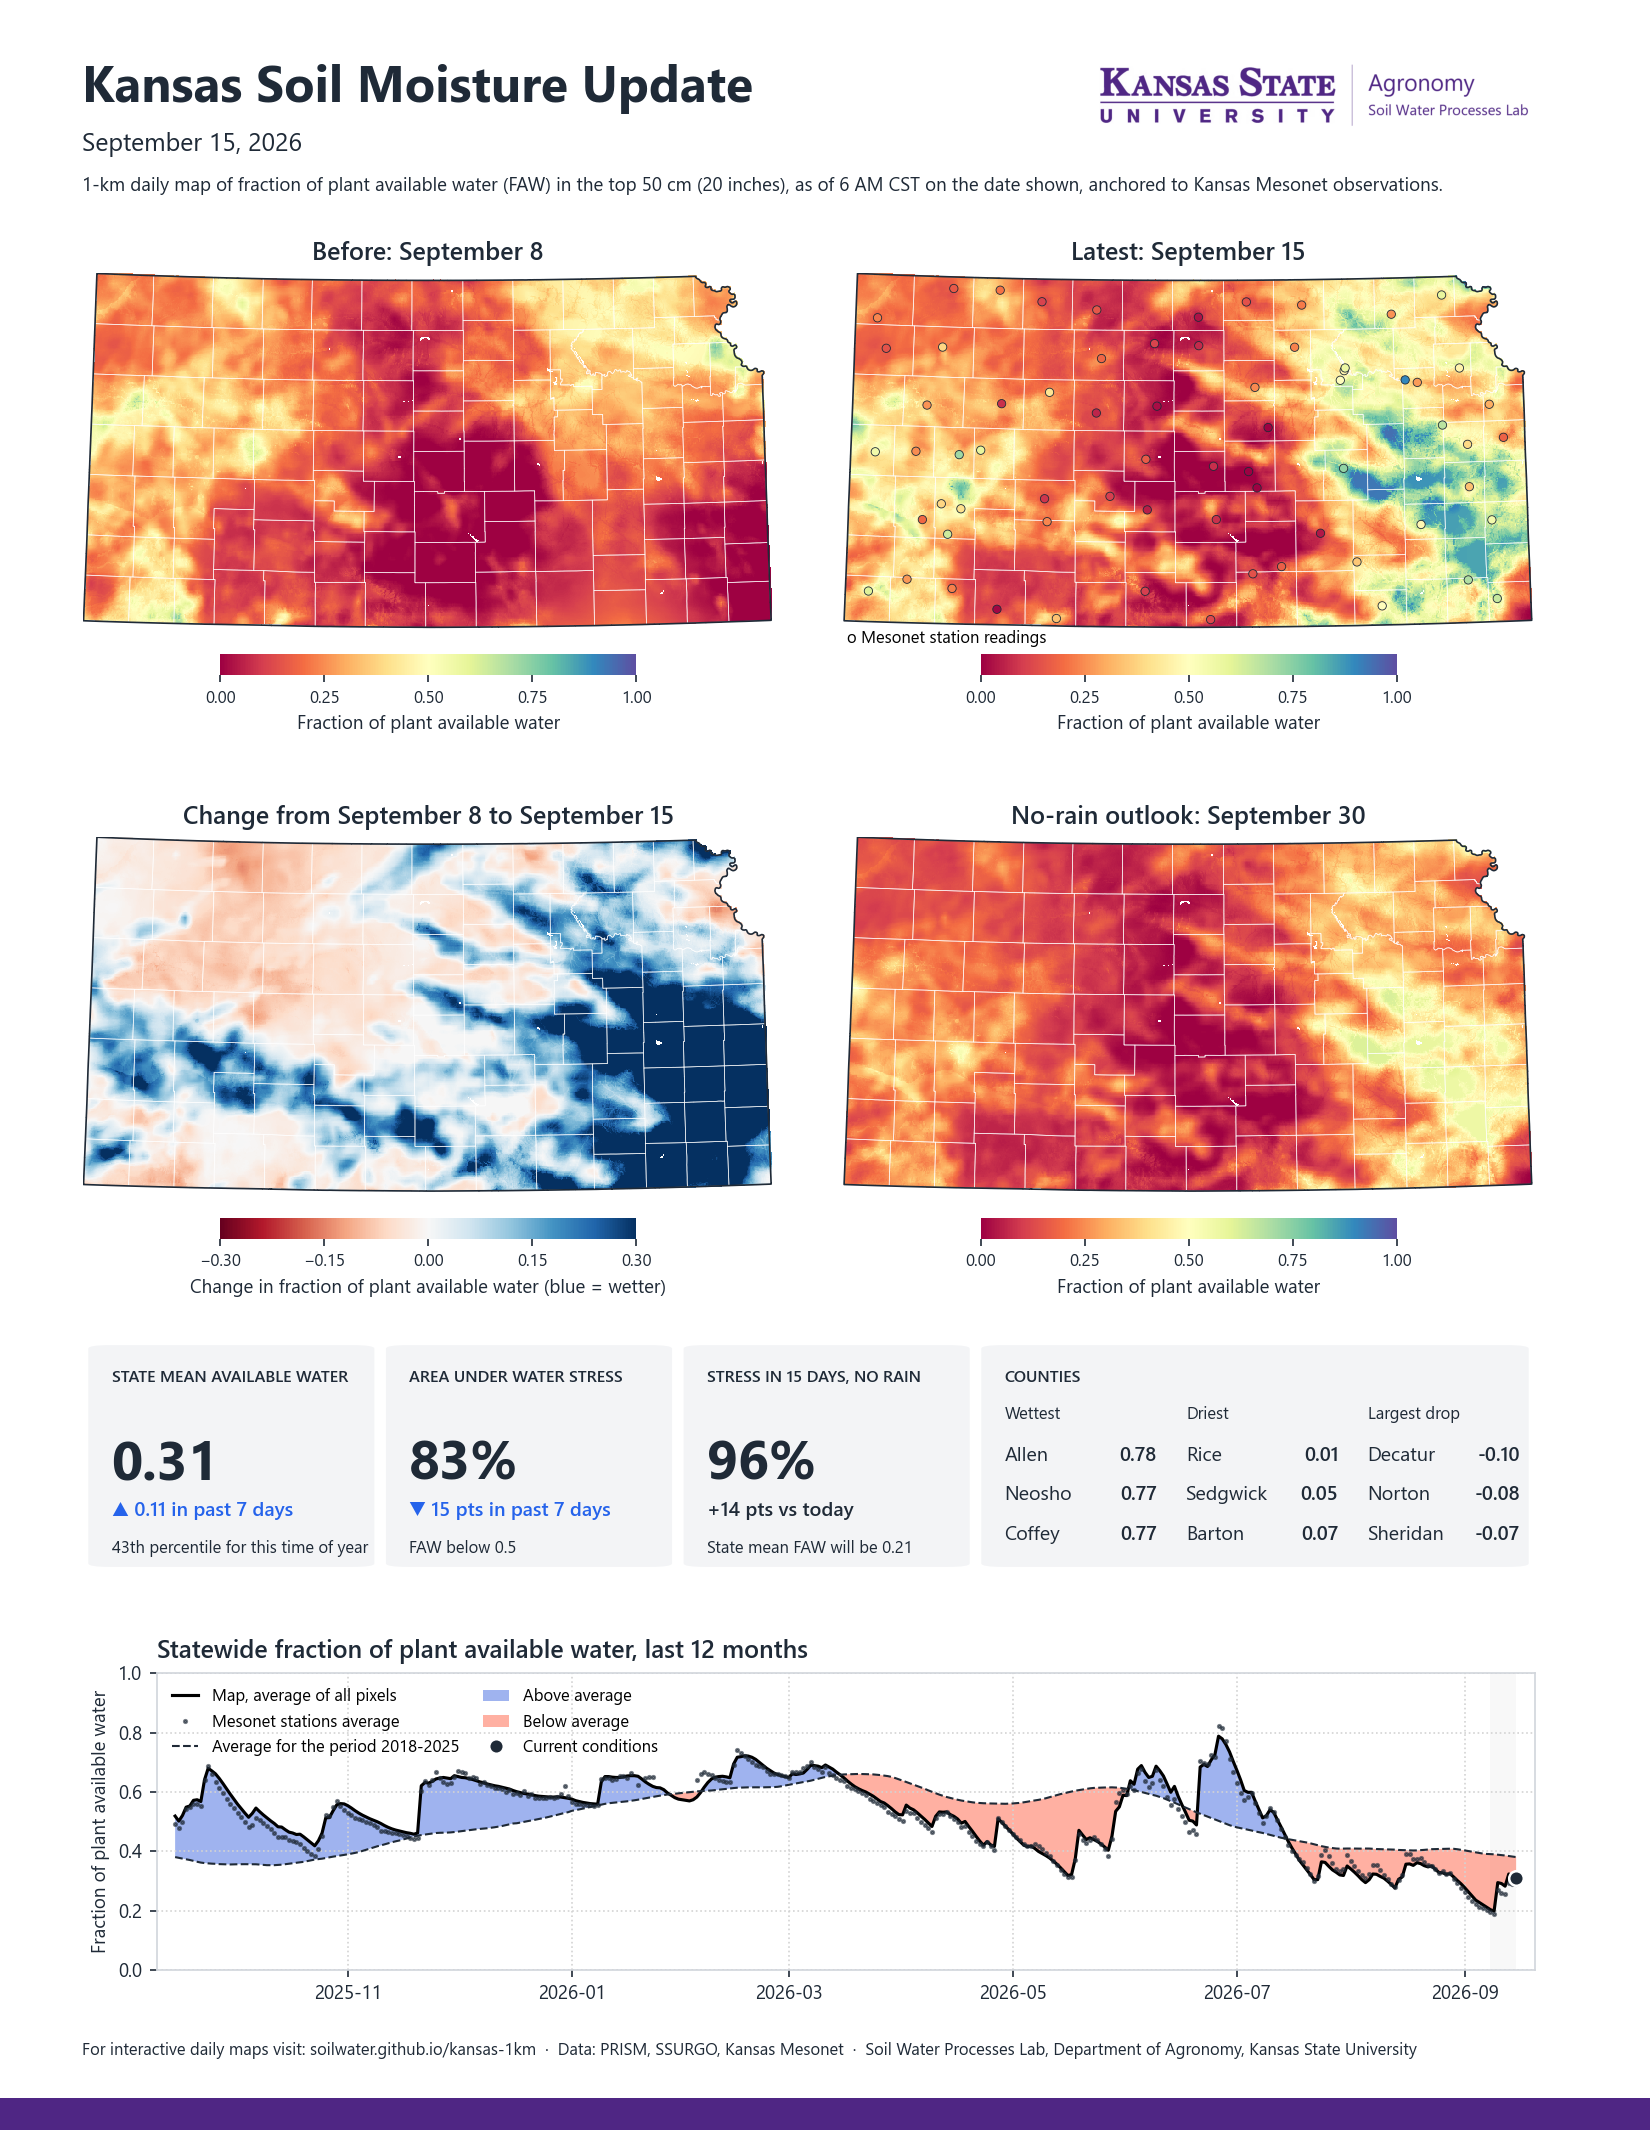
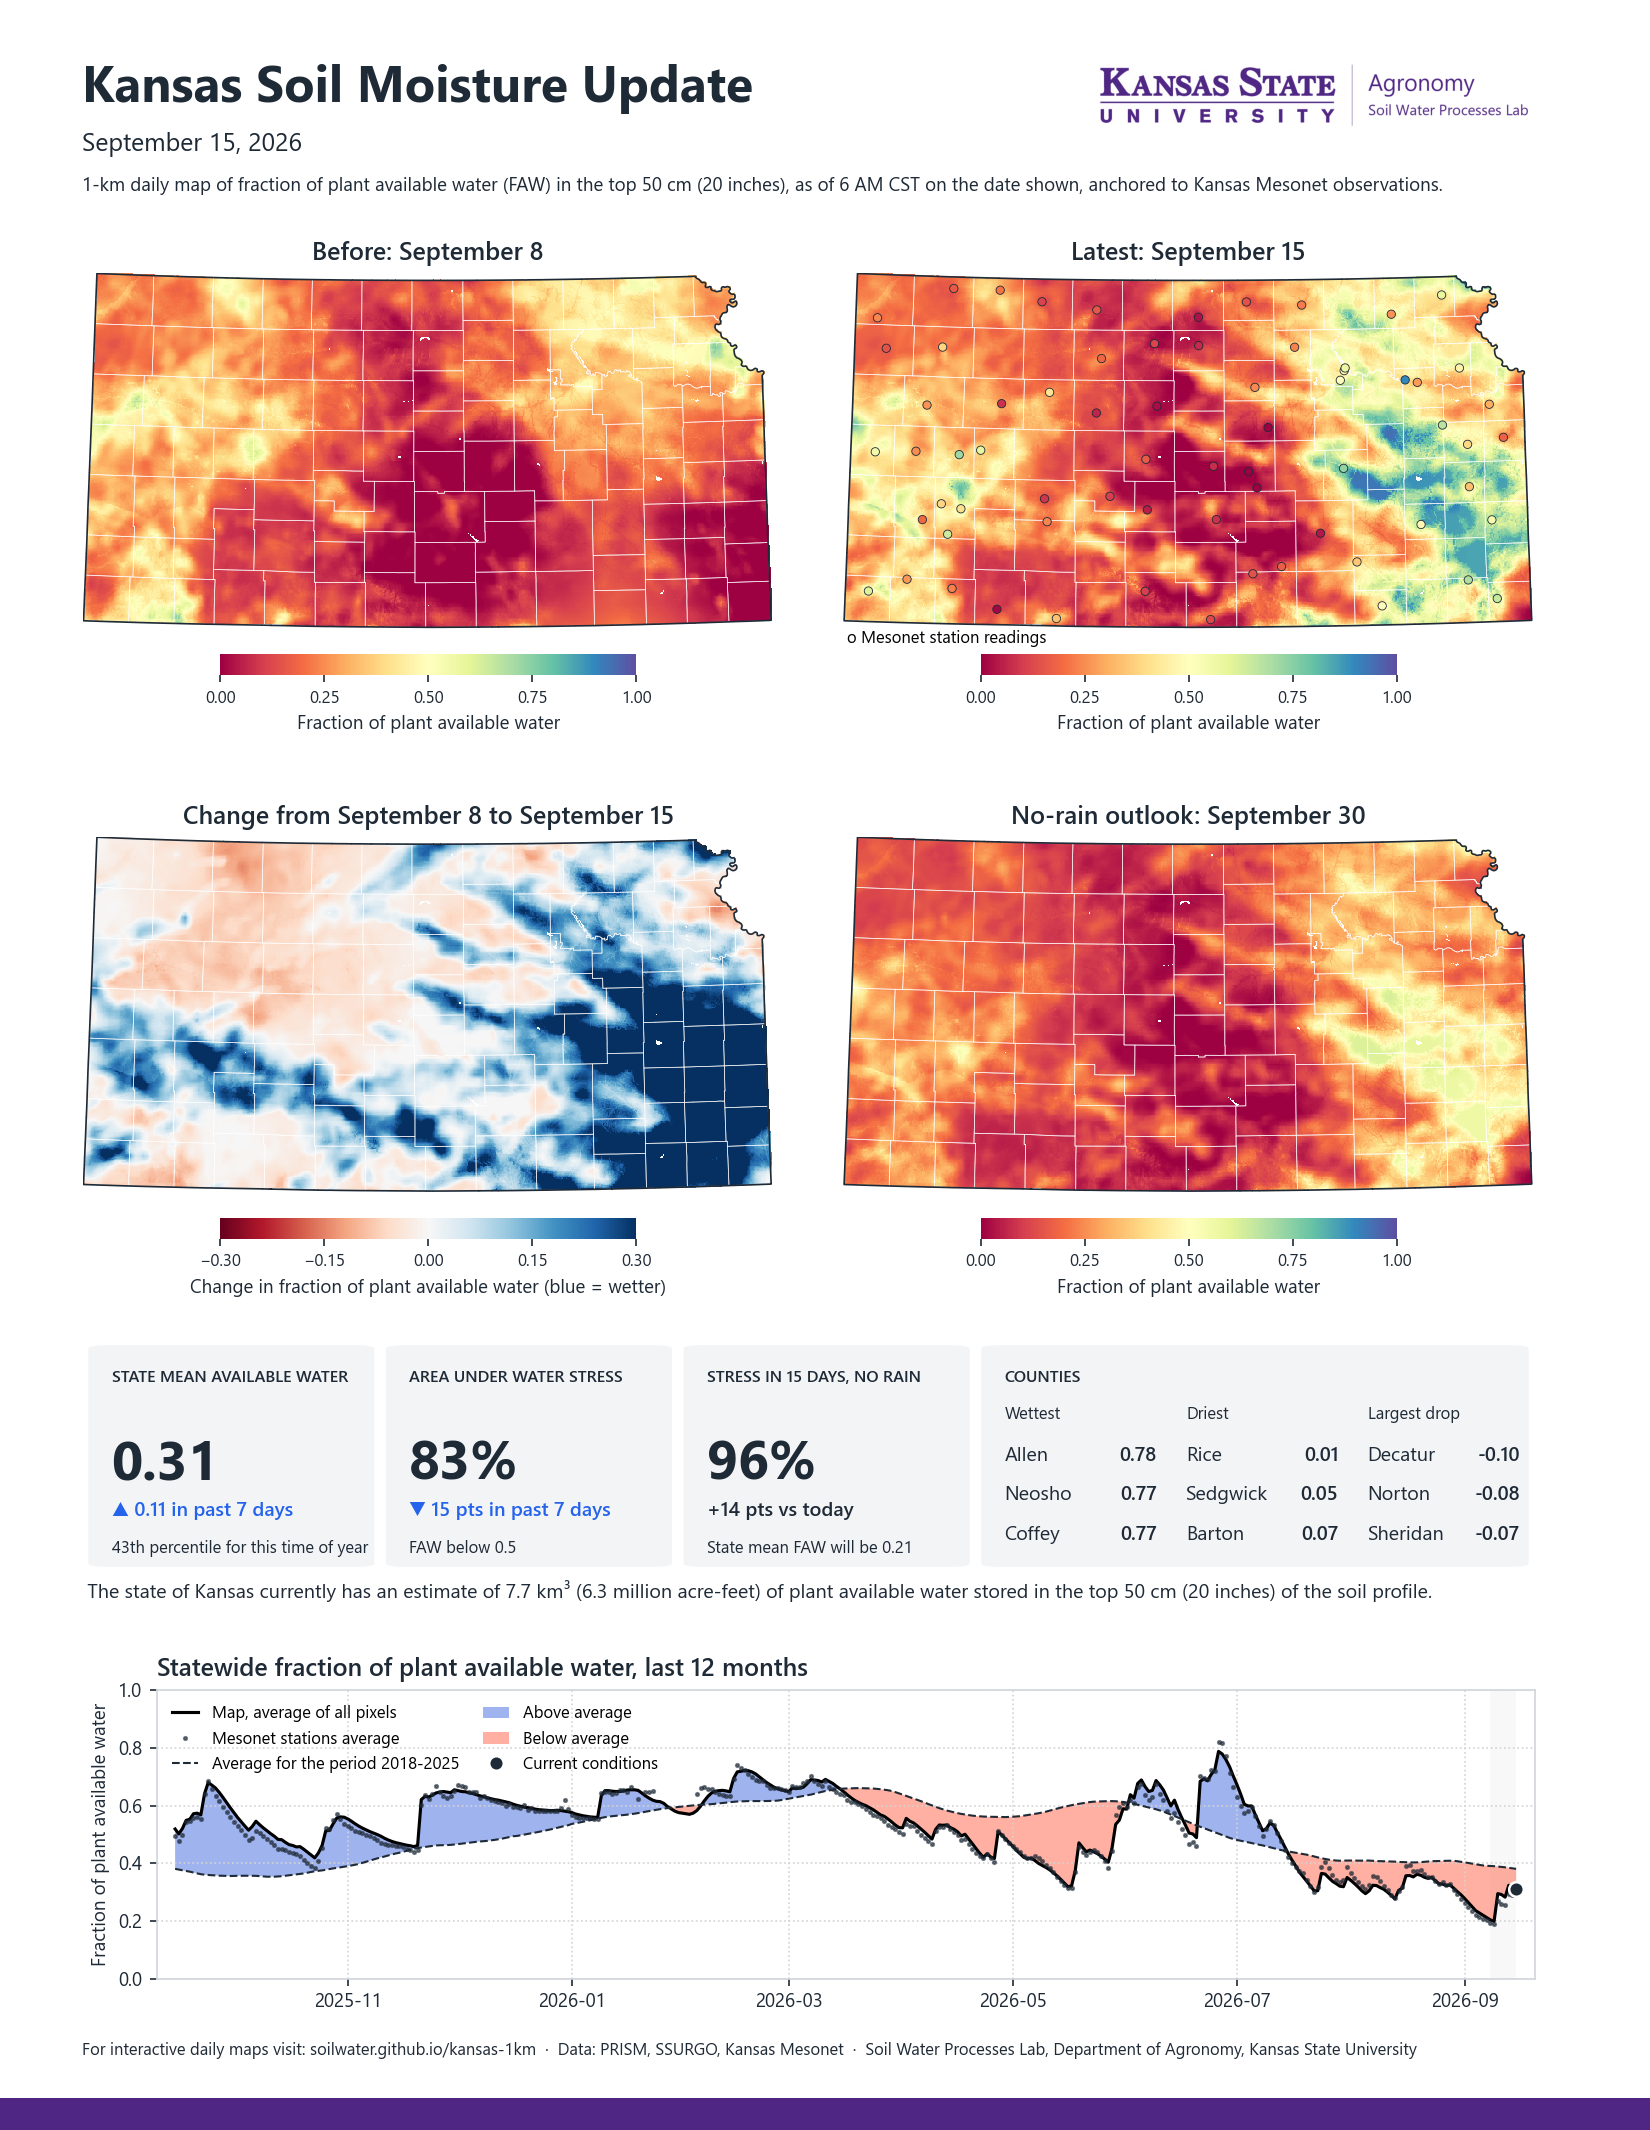
Updated

diff --git a/index.html b/index.html
@@ -222,17 +222,17 @@ const BOUNDS       = [[36.99262, -102.05760], [40.01096, -94.58362]];   // [[sou
 const SUMMARY_URL  = 'summary.csv';                            // date, faw_map, storage_km3, faw_stations, n_stations
 const COUNTIES_URL = 'boundaries/kansas_county_bnd.geojson';
 const MIN_DATE = new Date('2017-10-15T12:00:00');
-const STORAGE_FLOOR_KM3 = 17.0, STORAGE_CEILING_KM3 = 39.6;   // state totals at wilting point / field capacity (printed by analysis.ipynb, Figure 7)
+const PAW_BASE_KM3 = 15.113, PAW_CAPACITY_KM3 = 25.228;       // ΣLL·area (below-wilting base subtracted from storage_km3) / ΣTAW·area (plant-available water at field capacity)
 const MIN_STATIONS = 30;                                       // station mean is shown only when at least this many stations report
 
 // Variables offered in the chart. Each reads columns of summary.csv; add a row here to add a variable.
 const VARIABLES = {
-  faw: { label: 'Available water', y: 'FAW', min: 0, max: 1, fmt: v => v.toFixed(2),
+  faw: { label: 'Fraction (FAW)', y: 'FAW', min: 0, max: 1, fmt: v => v.toFixed(2),
          line: { col: 'faw_map', name: 'map, spatial mean' }, dots: { col: 'faw_stations', name: 'stations, mean' },
          note: 'Line: spatial mean of the map. Dots: mean of the Kansas Mesonet stations, shown when at least ' + MIN_STATIONS + ' report (fewer in freezing spells).' },
-  km3: { label: 'Water stored', y: 'km³', min: STORAGE_FLOOR_KM3, max: STORAGE_CEILING_KM3, fmt: v => v.toFixed(1) + ' km³',
-         line: { col: 'storage_km3', name: 'water stored in the top 50 cm' }, ref: { value: STORAGE_CEILING_KM3, name: 'field capacity' },
-         note: 'Axis floor: state total with every pixel at wilting point. Dashed: state total at field capacity.' },
+  km3: { label: 'Plant available water', y: 'km³', min: 0, max: PAW_CAPACITY_KM3, fmt: v => v.toFixed(1) + ' km³', fillArea: true,
+         line: { col: 'paw_km3', name: 'plant available water stored' }, ref: { value: PAW_CAPACITY_KM3, name: 'field capacity' },
+         note: 'Plant available water stored across the state (top 50 cm). Dashed: the amount at field capacity (' + PAW_CAPACITY_KM3.toFixed(0) + ' km³).' },
   n:   { label: 'Stations', y: 'stations', min: 0, max: 100, fmt: v => v.toFixed(0),
          line: { col: 'n_stations', name: 'stations reporting' }, note: 'Number of Mesonet stations with a valid, unfrozen profile that day.' },
 };
@@ -510,6 +510,7 @@ fetch(SUMMARY_URL).then(r => r.text()).then(txt => {
   S = { dates: rows.map(r => r[0]), index: {} };
   head.slice(1).forEach(name => S[name] = col(name));
   S.faw_stations = S.faw_stations.map((v, i) => S.n_stations[i] >= MIN_STATIONS ? v : null);
+  S.paw_km3 = S.storage_km3.map(v => v == null ? null : v - PAW_BASE_KM3);   // plant available water = total storage minus the constant below-wilting base
   S.dates.forEach((d, i) => S.index[d] = i);
   latest = fromISO(S.dates[S.dates.length - 1]); dateInput.max = S.dates[S.dates.length - 1];     // the last day that has a map
   buildButtons(); buildChart();
@@ -528,7 +529,7 @@ function buildButtons() {
 function buildChart() {
   const v = VARIABLES[variable], datasets = [];
   if (v.dots) datasets.push({ label: v.dots.name, data: S[v.dots.col], type: 'scatter', pointRadius: 1.3, pointHoverRadius: 3, backgroundColor: 'rgba(255,255,255,0.65)', order: 1 });
-  datasets.push({ label: v.line.name, data: S[v.line.col], borderColor: '#f0885a', borderWidth: 1.3, pointRadius: 0, pointHoverRadius: 3, fill: v.min === STORAGE_FLOOR_KM3 ? { target: 'start', above: 'rgba(240,136,90,0.12)' } : false, spanGaps: false, order: 2 });
+  datasets.push({ label: v.line.name, data: S[v.line.col], borderColor: '#f0885a', borderWidth: 1.3, pointRadius: 0, pointHoverRadius: 3, fill: v.fillArea ? { target: 'start', above: 'rgba(240,136,90,0.12)' } : false, spanGaps: false, order: 2 });
   if (v.ref) datasets.push({ label: v.ref.name, data: S.dates.map(() => v.ref.value), borderColor: 'rgba(255,255,255,0.4)', borderDash: [4, 4], borderWidth: 1, pointRadius: 0, pointHoverRadius: 0, order: 3 });
   document.getElementById('charts-note').textContent = v.note;
   if (chart) chart.destroy();
